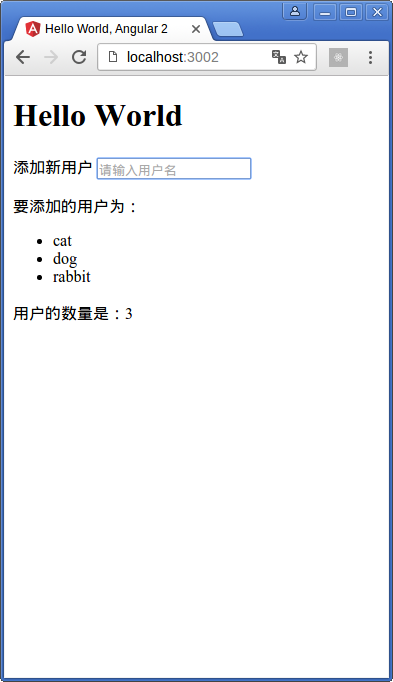
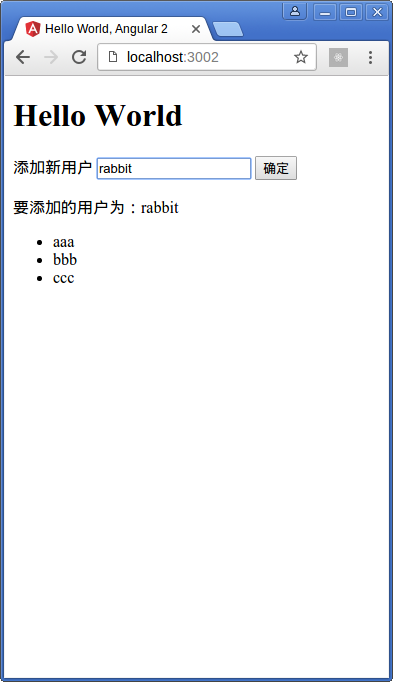
Update ng2 book.

diff --git a/.idear/angular2.md b/.idear/angular2.md
@@ -915,7 +915,7 @@ export class UserListComponent implements OnInit {
 }
 ```
 
-因为绑定的存在，不需要去管`UserListComponent#users`的值，他会自己更新。当然，`username`为空时没什么暖用，要过滤掉。
+`username`为空时没什么暖用，要过滤掉。
 
 来试试看吧，输入一些字，然后点击确定。HOHO～全部都在变，这就是绑定的威力。不过好像少写了一些东西，添加成功后，要把`username`的值清空，这个简单：
 
@@ -938,9 +938,9 @@ export class UserListComponent implements OnInit {
 /* @file app/user-list.component.ts */
 const component = {
   template: `
-  //... <button> 现在可以删掉了
-  <input type="text" [(ngModel)]="newUser" placeholder="请输入用户名" (keyup.enter)="createUser()" />
-  //...
+    //... <button> 现在可以删掉了
+    <input type="text" [(ngModel)]="newUser" placeholder="请输入用户名" (keyup.enter)="createUser()" />
+    //...
   `
 }
 ```
@@ -1362,6 +1362,117 @@ const component = {
 
 给你三分钟时间休息，后面还有更重要的内容等着你。
 
+```typescript
+/* @file app/user-list.component.ts */
+import { Component, OnInit } from 'angular2/core'
+import { User, UserService } from './user.service'
+import { UserItemComponent } from './user-item.component'
+
+const component = {
+  selector: 'user-list',
+  directives: [UserItemComponent],
+  templateUrl: 'app/user-list.component.html'
+}
+
+@Component(component)
+export class UserListComponent implements OnInit {
+  constructor(private _service: UserService) {}
+
+  users: User[]
+  username: string = ''
+
+  getUsersCount(): number {
+    if(!this.users) return 0
+    return this.users.length
+  }
+
+  createUser(): void {
+    if(!this.username.trim()) return
+    let resetUserName = () => this.username = ''
+    this._service.createUser(this.username).then(resetUserName)
+  }
+
+  deleteUser(user: User): void {
+    this._service.deleteUser(user)
+  }
+
+  updateUser(user: User, username: string): void {
+    this._service.updateUser(user, username)
+  }
+
+  ngOnInit() {
+    this._service.getUsers().then(users => this.users = users)
+  }
+}
+```
+
+```html
+<!-- @file app/user-list.component.html -->
+<div>
+  <label>
+    添加新用户
+    <input type="text" [(ngModel)]="username" placeholder="请输入用户名" (keyup.enter)="createUser()" />
+  </label>
+  <p>要添加的用户为：{{username}}</p>
+</div>
+<div *ngIf="getUsersCount()">
+  <ul>
+    <li *ngFor="#user of users">
+      <user-item [user]="user" (updateUser)="updateUser(user, $event)"></user-item>
+      <a (click)="deleteUser(user)">删除</a>
+    </li>
+  </ul>
+  <p>用户的数量是：{{getUsersCount()}}</p>
+</div>
+<div *ngIf="!getUsersCount()">
+  <p>木有用户(°Д°)</p>
+</div>
+```
+
+```typescript
+/* @file app/user-item.component.ts */
+import { Component, OnInit, EventEmitter, Input, Output } from 'angular2/core'
+
+const component = {
+  selector: 'user-item',
+  templateUrl: 'app/user-item.component.html'
+}
+
+@Component(component)
+export class UserItemComponent implements OnInit {
+
+  @Input()
+  user
+
+  @Output(this.user)
+  updateUser = new EventEmitter<string>()
+
+  username: string
+  isEdit: boolean = false
+
+  beginEdit() {
+    this.isEdit = true
+  }
+
+  endEdit() {
+    this.isEdit = false
+    this.updateUser.next(this.username)
+  }
+
+  ngOnInit() {
+    this.username = this.user.name
+  }
+}
+```
+
+```html
+<!-- @file app/user-item.component.html -->
+<span *ngIf="!isEdit">{{user.name}}</span>
+<input *ngIf="isEdit" [(ngModel)]="username" />
+<a *ngIf="!isEdit" (click)="beginEdit()">修改</a>
+<a *ngIf="isEdit" (click)="endEdit()">完成</a>
+```
+
 [回到顶部](#)
 
 # 当然，还有重要的东西没有说
@@ -1407,7 +1518,9 @@ export class AppComponent {}
 
 有点多，来依次看看。
 
-在`app/boot.ts`中，引入了`ROUTER_PROVIDERS`，用来将路由注入到组件中。在`app/app.component.ts`引入了`RouteConfig`和`ROUTER_DIRECTIVES`。`RouteConfig`就是你所看到的`@RouteConfig`注解，而`ROUTER_DIRECTIVES`是模板中的`<router-outlet>`，作用是占位符，之前的`<user-list>`现在可以去掉了。接下来：
+在`app/boot.ts`中，引入了`ROUTER_PROVIDERS`，用来将路由注入到组件中。在`app/app.component.ts`引入了`RouteConfig`和`ROUTER_DIRECTIVES`。`RouteConfig`就是你所看到的`@RouteConfig`注解，而`ROUTER_DIRECTIVES`是模板中的`<router-outlet>`，作用是占位符。
+
+之前的`<user-list>`现在可以去掉了。接下来：
 
 ```typescript
 const router: RouteDefinition[] = [
@@ -1522,11 +1635,39 @@ const component = {
 }
 ```
 
-来试试我们的新功能吧。Ok，可以来回跳转，但是，详细页的数据要怎么显示？
+来试试我们的新功能吧。
+
+<img src="ng2/ng2-route-1.png" title="ng2 route 1." />
+<img src="ng2/ng2-route-2.png" title="ng2 route 2." />
+
+Ok，可以来回跳转，但是，详细页的数据要怎么显示？
+
+```typescript
+/* @file app/user-detail.component.ts */
+import { Component, OnInit } from 'angular2/core'
+import { ROUTER_DIRECTIVES } from 'angular2/router'
+
+const component = {
+  selector: 'user-detail',
+  directives: [ROUTER_DIRECTIVES],
+  templateUrl: 'app/user-detail.component.html'
+}
+
+@Component(component)
+export class UserDetailComponent {}
+```
+
+```html
+<!-- @file app/user-detail.component.html -->
+<h2>User Detail</h2>
+<a [routerLink]="['UserList']">返回</a>
+```
+
+[回到顶部](#)
 
 # 恩，这确实是个难点
 
-接下来还剩下最后一个功能，就是在详细页面显示出用户的姓名。
+接下来还剩下我们的最后一个功能，就是在详细页面显示出用户的姓名。
 
 因为路由中动态段中有`id`，所以最简单的办法就是取这个`id`，然后在`service`中取得对应`id`的`user`。
 
@@ -1560,7 +1701,7 @@ export class UserService {
 }
 ```
 
-现在你应该已经习惯ts的写法了。然后要做的就是在组件中赋值给一个属性：
+现在你应该已经习惯ts的写法。然后要做的就是在组件中赋值给一个属性：
 
 ```typescript
 /* @file app/user-detail.component.ts */
@@ -1589,6 +1730,10 @@ export class UserDetailComponent implements OnInit {
 
 Ok，来试试看。
 
+<img src="ng2/ng2-route-3.png" title="ng2 route 3." />
+
+[回到顶部](#)
+
 # 回归主题，新年快乐！
 
 我们的ng2之旅要告一段落了，但这还只是刚刚开始。相对于react和ember2，他们各自都有优缺点。
@@ -1602,6 +1747,10 @@ Ok，来试试看。
 那么，新年快乐(｡◕‿◕｡)，bye ~
 
 And See you again.:two_hearts:
+
+<img src="ng2/profile.jpg" title="profile." />
+
+[回到顶部](#)
 
 # 附录，TypeScript 101
 
@@ -1908,4 +2057,8 @@ let test = id<string>('hello world')
 
 学习ts进一步可以提高对js的认知，并且能够写出优雅的代码。值得入手程度：:star2::star2::star2::star2::star2:
 
+[回到顶部](#)
+
 # 附录，ng2与RESTful
+
+@TODO
